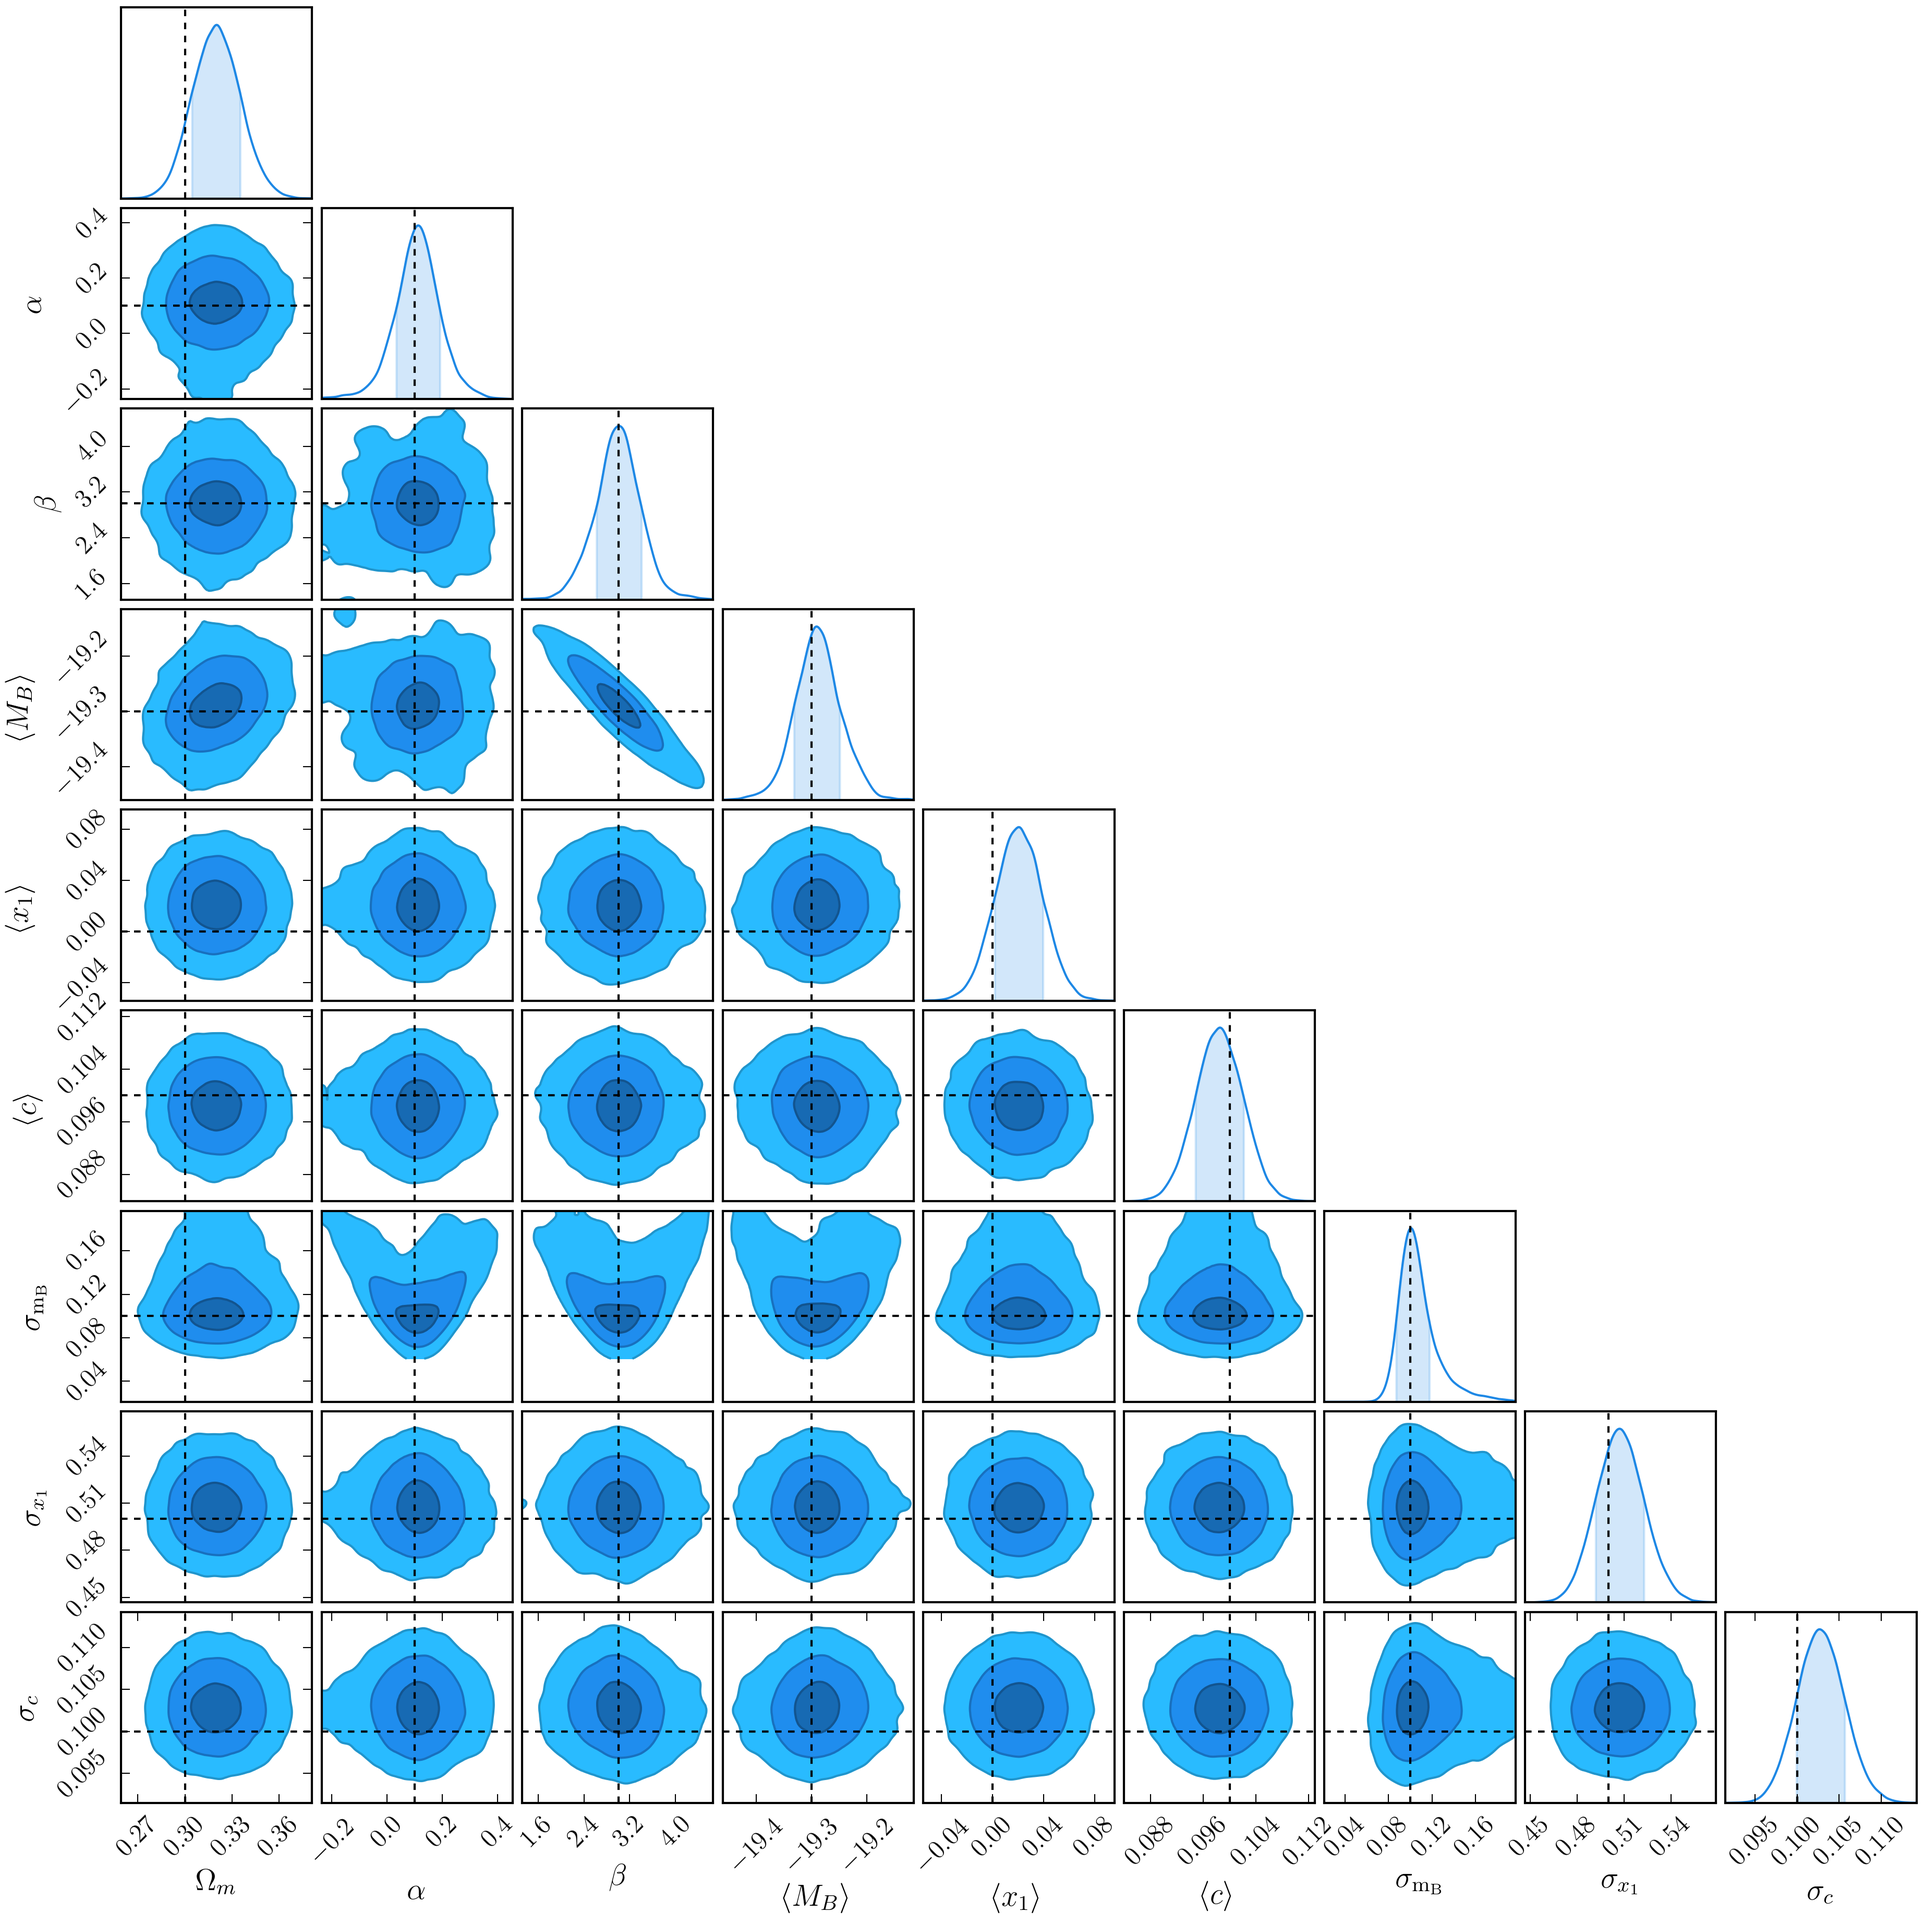
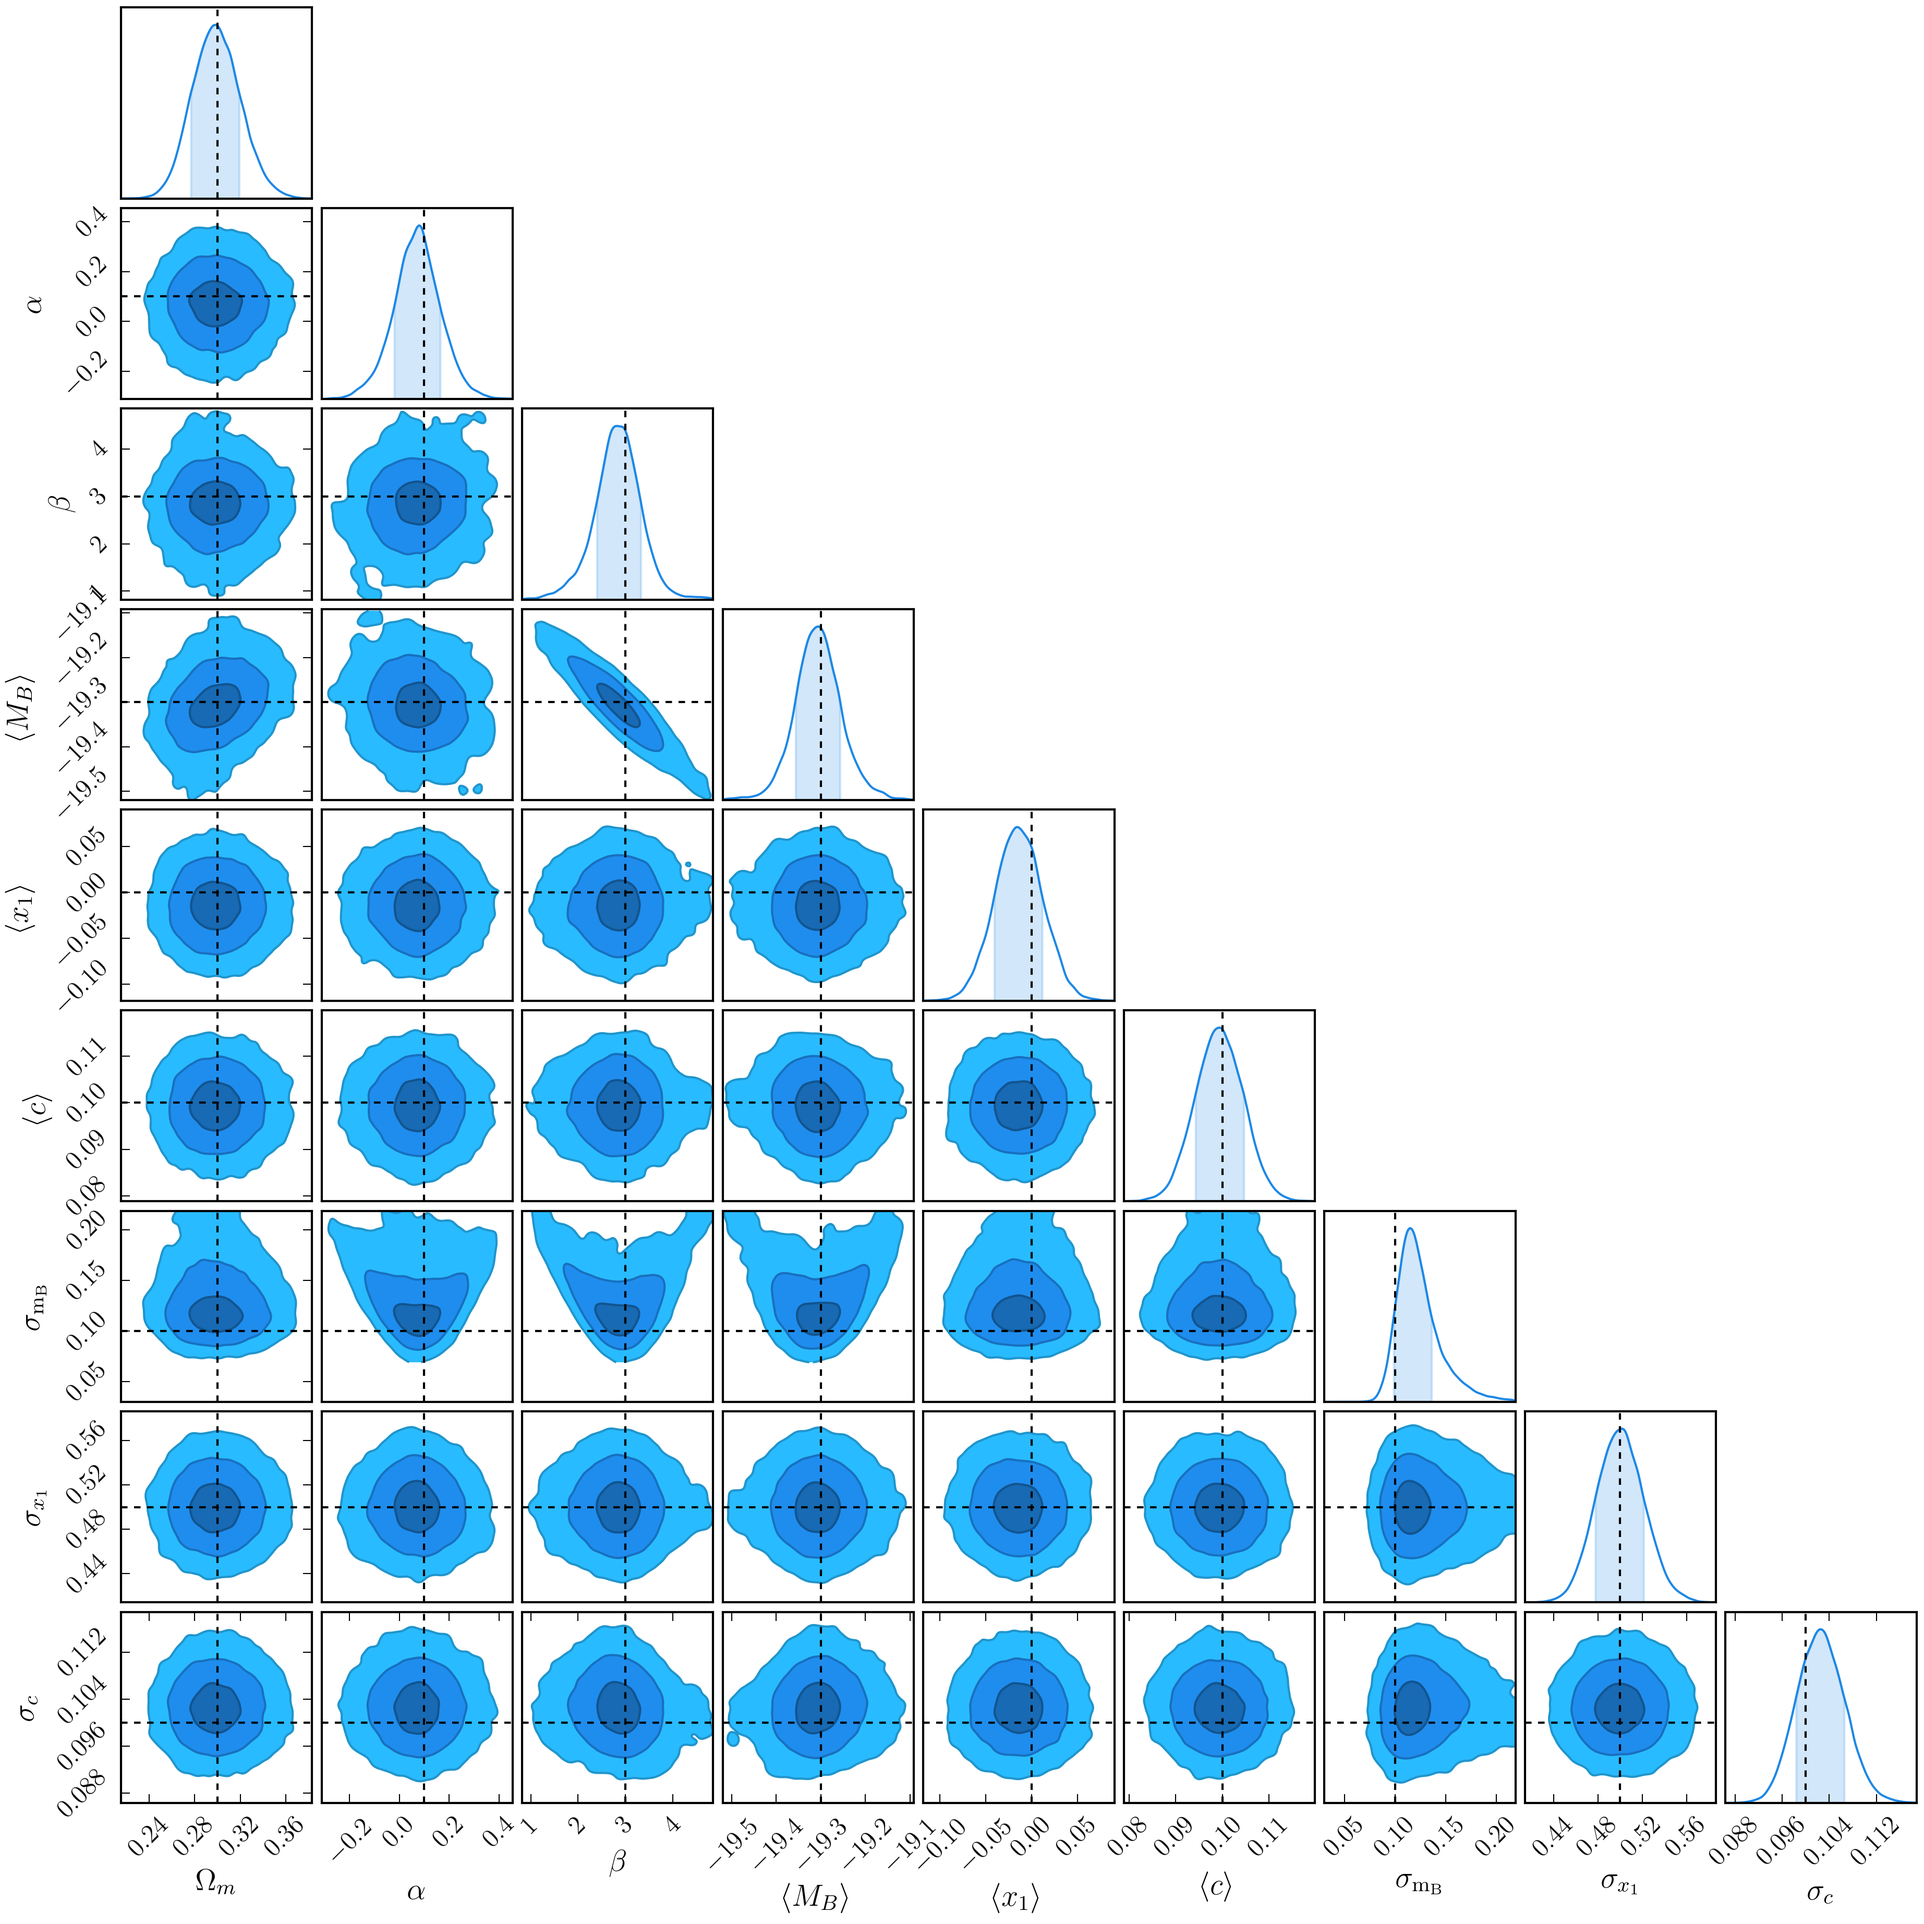
Updating doco, and omega_m bias now gone

diff --git a/dessn/models/d_simple_stan/__init__.py b/dessn/models/d_simple_stan/__init__.py
@@ -171,7 +171,7 @@ that a final numerator of:
     \rm{Cauchy}(\sigma_{c}|0,2.5)
     \rm{LKJ}(\rho|4) \\
     &\quad\quad\quad \mathcal{N}\left( \lbrace \hat{m_B}, \hat{x_1}, \hat{c} \rbrace | \lbrace m_B, x_1, c \rbrace, C \right)
-    \mathcal{N}\left( \lbrace M_B, x_1, c \rbrace | \lbrace \langle M_B \rangle, \langle x_1 \rangle, \langle c \rangle \rbrace, V) \right)
+    \mathcal{N}\left( \lbrace M_B, x_1, c \rbrace | \lbrace \langle M_B \rangle, \langle x_1 \rangle, \langle c \rangle \rbrace, V \right)
 
 A rough fit for this, is shown below, for five hundred generated supernova.
 
@@ -190,7 +190,7 @@ of our likelihood! Now, for :math:`P(S|\theta)` to make mathematical sense, the 
 effects :math:`S` need to apply onto some data:
 
 .. math::
-    P(S|\theta) = \int dR P(R,S|\theta)
+    P(S|\theta) = \int dR\ P(R,S|\theta)
 
 where :math:`R` is a potential realisation of our experiment. To write this down,
 and taking into account we can model supernova such that we can determine
@@ -200,35 +200,44 @@ have:
 .. math::
     P(S|\theta) &= \int d\hat{m_B} \int d\hat{x}_1 \int d\hat{c}
     \int dz \int dm \int dm_B \int dx_1 \int dc \
-    P(\hat{m_B}, m_B, \hat{x}_1, x_1, \hat{c}, c, z, m, S|\theta) \\
+    P(\hat{m_B}, m_B, \hat{x}_1, x_1, \hat{c}, c, z, m, S|\theta) \\[10pt]
     &= \int d\hat{m_B} \int d\hat{x}_1 \int d\hat{c}
     \int dz \int dm \int dm_B \int dx_1 \int dc \
-    P(\hat{m_B}, \hat{x}_1, \hat{c} | m_B, x_1, c) P(m_B, x_1, c, z, m, S|\theta) \\
+    P(\hat{m_B}, \hat{x}_1, \hat{c} | m_B, x_1, c) P(m_B, x_1, c, z, m, S|\theta) \\[10pt]
     &= \idotsint d\hat{m_B}\, d\hat{x}_1 \, d\hat{c} \, dz \, dm \, dm_B \, dx_1 \, dc \
-    P(\hat{m_B}, \hat{x}_1, \hat{c} | m_B, x_1, c) P(S|m_B, x_1, c) P(m_B, x_1, c, z, m|\theta) \\
+    P(\hat{m_B}, \hat{x}_1, \hat{c} | m_B, x_1, c) P(S|m_B, x_1, c) P(m_B, x_1, c, z, m|\theta) \\[10pt]
     &= \idotsint d\hat{m_B}\, d\hat{x}_1 \, d\hat{c} \, dz \, dm \, dm_B \, dx_1 \, dc \
-    P(\hat{m_B}, \hat{x}_1, \hat{c} | m_B, x_1, c) P(S|m_B, x_1, c, z) P(c|\theta) P(x_1 | \theta) P(m_B, z, m|\theta) \\
+    P(S|m_B, x_1, c, z) P(\hat{m_B}, \hat{x}_1, \hat{c} | m_B, x_1, c)
+    P(M_B, x_1, c | \theta) P(z|\theta) P(m|\theta)
 
 Note again that we assume redshift and mass are perfectly known, so relationship between
 actual (latent) redshift and mass and the observed quantity is a delta function, hence why
-they only appear once in the equation above.
+they only appear once in the equation above. In the last line I simply substitute the multivariate
+normal probabilities distributions reached in the previous section and utilise the
+transformation from apparent magnitude to absolute magnitude. The important assumption
+in the last line fo the equation is that the detection efficiency is to good approximation
+captured by the apparent magnitude, colour, stretch and redshift of the supernova.
 
-As we integrate over all possible realisations, we have that over all space
-:math:`P(\hat{m_B}, \hat{x}_1, \hat{c} | m_B, x_1, c) = \iiint_{-\infty}^{\infty} \mathcal{N}( \hat{m_B}, \hat{x}_1, \hat{c} | m_B, x_1, c, \sqrt{\sigma^2_{\rm obs} + \sigma^2_{\rm add}})= 1`,
-and as such we can remove it from the integral. We also note that at the moment the model
-not contain any details of the mass distribution of galaxies, which may be an issue.
+As we integrate over all possible realisations, we have that over all space we have
 
 .. math::
-    P(S|\theta) &= \idotsint dz \, dm \, dm_B \, dx_1 \, dc  P(S|m_B, x_1, c, z) P(m_B|z, m, x_1, c, \theta) P(z) P(m) P(c|\theta) P(x_1 | \theta) \\
+    P(\hat{m_B}, \hat{x}_1, \hat{c} | m_B, x_1, c) =
+    \iiint_{-\infty}^{\infty} d\hat{m_B} d\hat{x_1} d\hat{c}\
+    \mathcal{N}(\lbrace \hat{m_B}, \hat{x}_1, \hat{c} \rbrace | \lbrace m_B, x_1, c \rbrace, C) = 1
+
+and as such we can remove it from the integral.
+
+.. We also note that at the moment the model not contain any details of the mass distribution of galaxies, which may be an issue.
+
+.. math::
+    P(S|\theta) &= \idotsint dz \, dm \, dm_B \, dx_1 \, dc \  P(S|m_B, x_1, c, z)  P(M_B, x_1, c | \theta) P(z|\theta) P(m|\theta)
 
 Addressing each component individually:
 
 .. math::
     P(z)&= \text{Redshift distribution from DES volume}\\
     P(m) &= \text{Unknown mass distribution} \\
-    P(c|\theta) &= P(c| \langle c \rangle, \sigma_c, \alpha_c) = \mathcal{N}_{\rm skew}(c|\langle c \rangle, \sigma_c, \alpha_c) \\
-    P(x_1|\theta) &= P(x_1| \langle x_1 \rangle, \sigma_{x1}) = \mathcal{N}(x_1|\langle  x_1 \rangle, \sigma_{x1}) \\
-    P(m_B|z, m, x_1, c, \theta) &= \delta(m_B, \Omega_m, w, z, x_1, c, m, \alpha, \beta, M_B) \\
+    P(M_B, x_1, c|\theta) &= \mathcal{N}\left( \lbrace M_B, x_1, c \rbrace | \lbrace \langle M_B \rangle, \langle x_1 \rangle, \langle c \rangle \rbrace, V \right) \\
     P(S|m_B, x_1, c, z) &= \text{Ratio of SN generated that pass selection cuts for given SN parameters}
 
 Now enter the observational specifics of our survey: how many bands, the band passes,
@@ -240,36 +249,19 @@ frequency of observation, weather effects, etc. The selection effects we need to
     * At least one point :math:`t > 10`.
     * At least 2 filters with :math:`S/N > 5`.
 
-These cuts there require us to model the light curves themselves, not just
-the magnitude, colour and stretch distribution. We thus need to be able to
-go from a given :math:`\lbrace m_B, x_1, c, z, m\rbrace`, to a supernova
-light curve.
 
--------
-
-    **Technical aside**: Calculating :math:`\delta(m_B, \Omega_m, w, z, x_1, c, m \alpha, \beta, M_B)`
+.. note::
+    **Technical aside**: Calculating this correction
     is not an analytic task. It has complications not just in the distance modulus being the
     result of an integral, but also that the colour and stretch correction factors make
-    extra use of supernova specific values. The way to efficiently determine :math:`P(m_B|...)`
+    extra use of supernova specific values. The way to efficiently determine the efficiency
     is given as follows:
 
-        1. Draw samples of :math:`z` from the DES redshift distribution.
-        2. Using :math:`\Omega_m` and :math:`w` to translate this to a :math:`\mu` distribution.
-        3. Take simulated supernova :math:`m_B, x_1, c, m, z` values, and use :math:`\alpha, \beta, \delta(0), \delta(\infty), M_B` to get :math:`\mu^* = m_B + \alpha x_1 - \beta c + m k(z) - M_B`
-        4. Using :math:`P(\mu)` from step 2, determine :math:`P(-\mu^*)`, which is equivalent to :math:`P(m_B|z, m, x_1, c, \theta)`.
+        1. Initially run a large DES-like simulation, recording all generated SN parameters and whether they pass the cuts.
+        2. Using input cosmology to translate :math:`m_B, x_1, c` distribution to a :math:`M_B, x_1, c` distribution.
+        3. Perform Monte-Carlo integration using the distribution. The value is :math:`P(S|m_B,x_1,c,z) = 1.0` if detected, :math:`0` otherwise, weighted by the probability of :math:`M_B,x_1,c,z,m` for that cosmology.
 
-    However, this breaks down because we move dispersion into the observation and thus remove it from the integral.
-    This means that :math:`P(\mu)` remains a delta function, and thus :math:`P(m_B|z, m, x_1, c, \theta) = 0` for
-    all supernova. So what we realistically need is a better way of modelling the magnitude, colour and stretch
-    population. One way is to do it as a multivariate normal, but then we lose the ability to skew the colour
-    distribution. I cannot find a way of doing a multivariate skew distribution. Perhaps we could manually
-    combine them. Regardless, I cannot see how modelling populations *and* intrinsic dispersion is the correct
-    method to go with, because your population should really encompass the dispersion in the actual events.
 
-    I need to address this point before continuing. I feel the easiest thing to do at the moment is to
-    move to a multivariate normal model of :math:`\lbrace m_B, x_1, c \rbrace`.
-
--------
 
 
 
